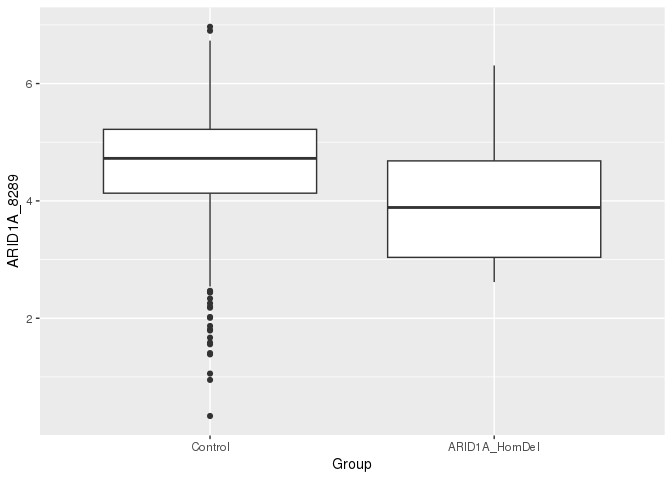
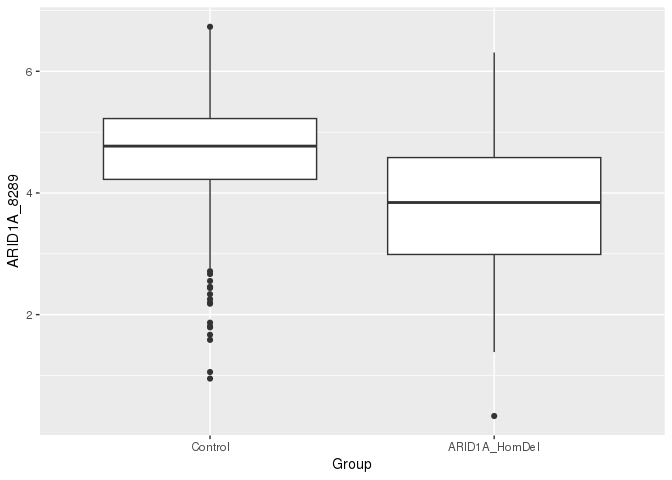
fixing typo. Thanks Richard

diff --git a/README.md b/README.md
@@ -168,14 +168,16 @@ they are not installed yet use `install.packages()` (eg.
 ``` r
 # Load library
 library(tidyverse)
-#> ── Attaching packages ─────────────────────────────────────── tidyverse 1.3.2 ──
-#> ✔ ggplot2 3.4.4     ✔ purrr   1.0.2
-#> ✔ tibble  3.2.1     ✔ dplyr   1.1.4
-#> ✔ tidyr   1.3.0     ✔ stringr 1.5.1
-#> ✔ readr   2.1.4     ✔ forcats 1.0.0
+#> ── Attaching core tidyverse packages ──────────────────────── tidyverse 2.0.0 ──
+#> ✔ dplyr     1.1.4     ✔ readr     2.1.4
+#> ✔ forcats   1.0.0     ✔ stringr   1.5.1
+#> ✔ ggplot2   3.4.4     ✔ tibble    3.2.1
+#> ✔ lubridate 1.9.3     ✔ tidyr     1.3.0
+#> ✔ purrr     1.0.2     
 #> ── Conflicts ────────────────────────────────────────── tidyverse_conflicts() ──
 #> ✖ dplyr::filter() masks stats::filter()
 #> ✖ dplyr::lag()    masks stats::lag()
+#> ℹ Use the conflicted package (<http://conflicted.r-lib.org/>) to force all conflicts to become errors
 library(GRETTA)
 #> 
 #>       _______ .______       _______ .___________.___________.    ___      
@@ -185,7 +187,7 @@ library(GRETTA)
 #>     |  |__| | |  |\  \----.|  |____     |  |        |  |     /  _____  \  
 #>      \______| | _| `._____||_______|    |__|        |__|    /__/     \__\ 
 #>     
-#>     Welcome to GRETTA! The version loaded is: 0.99.5
+#>     Welcome to GRETTA! The version loaded is: 2.3.0
 #> The latest DepMap dataset accompanying this package is v23Q2. 
 #> Please refer to our tutorial on GitHub for loading DepMap data and details: https://github.com/ytakemon/GRETTA
 ```
@@ -296,14 +298,15 @@ ARID1A_groups <- select_cell_lines(input_gene = "ARID1A", data_dir = gretta_data
 
 ## Show number of cell lines in each group 
 count(ARID1A_groups, Group)
-#> # A tibble: 5 × 2
+#> # A tibble: 6 × 2
 #>   Group               n
 #>   <chr>           <int>
-#> 1 ARID1A_HetDel      61
-#> 2 ARID1A_HomDel      23
-#> 3 ARID1A_T-HetDel    30
-#> 4 Control           906
-#> 5 Others             66
+#> 1 ARID1A_HetDel     166
+#> 2 ARID1A_HomDel      26
+#> 3 ARID1A_T-HetDel    31
+#> 4 Amplified          32
+#> 5 Control           758
+#> 6 Others             73
 ```
 
 ### Optional cell line filters
@@ -325,13 +328,14 @@ ARID1A_pancr_groups <- select_cell_lines(input_gene = "ARID1A",
 
 ## Show number of cell lines in each group 
 count(ARID1A_pancr_groups, Group)
-#> # A tibble: 4 × 2
-#>   Group             n
-#>   <chr>         <int>
-#> 1 ARID1A_HetDel     5
-#> 2 ARID1A_HomDel     4
-#> 3 Control          36
-#> 4 Others            2
+#> # A tibble: 5 × 2
+#>   Group               n
+#>   <chr>           <int>
+#> 1 ARID1A_HetDel      13
+#> 2 ARID1A_HomDel       4
+#> 3 ARID1A_T-HetDel     1
+#> 4 Control            27
+#> 5 Others              2
 ```
 
 ## Check for differential expression
@@ -352,7 +356,7 @@ ARID1A_rna_expr <- extract_rna(
   input_samples = ARID1A_groups_subset$DepMap_ID, 
   input_genes = "ARID1A",
   data_dir = gretta_data_dir)
-#> Following sample did not contain RNA data: ACH-000047, ACH-000426, ACH-000658, ACH-000979, ACH-001039, ACH-001063, ACH-001065, ACH-001107, ACH-001126, ACH-001137, ACH-001205, ACH-001212, ACH-001227, ACH-001331, ACH-001544, ACH-001606, ACH-001639, ACH-001675, ACH-001955, ACH-001956, ACH-001957, ACH-002083, ACH-002106, ACH-002109, ACH-002110, ACH-002114, ACH-002116, ACH-002119, ACH-002140, ACH-002141, ACH-002143, ACH-002150, ACH-002156, ACH-002160, ACH-002161, ACH-002179, ACH-002181, ACH-002186, ACH-002189, ACH-002198, ACH-002202, ACH-002210, ACH-002212, ACH-002217, ACH-002228, ACH-002229, ACH-002230, ACH-002233, ACH-002234, ACH-002239, ACH-002243, ACH-002247, ACH-002249, ACH-002250, ACH-002257, ACH-002261, ACH-002263, ACH-002265, ACH-002269, ACH-002278, ACH-002280, ACH-002282, ACH-002283, ACH-002284, ACH-002285, ACH-002294, ACH-002295, ACH-002296, ACH-002297, ACH-002298, ACH-002304, ACH-002305, ACH-002399, ACH-002874, ACH-002875
+#> Following sample did not contain RNA data: ACH-000047, ACH-000426, ACH-000658, ACH-000979, ACH-001039, ACH-001065, ACH-001107, ACH-001126, ACH-001137, ACH-001205, ACH-001212, ACH-001331, ACH-001606, ACH-001639, ACH-001956, ACH-002083, ACH-002106, ACH-002109, ACH-002110, ACH-002114, ACH-002116, ACH-002119, ACH-002140, ACH-002141, ACH-002143, ACH-002150, ACH-002156, ACH-002160, ACH-002161, ACH-002179, ACH-002181, ACH-002189, ACH-002198, ACH-002210, ACH-002212, ACH-002228, ACH-002233, ACH-002234, ACH-002239, ACH-002243, ACH-002247, ACH-002249, ACH-002250, ACH-002257, ACH-002261, ACH-002263, ACH-002265, ACH-002269, ACH-002278, ACH-002280, ACH-002284, ACH-002294, ACH-002295, ACH-002296, ACH-002297, ACH-002304, ACH-002305
 ```
 
 Not all cell lines contain RNA and/or protein expression profiles, and
@@ -388,13 +392,13 @@ t.test(ARID1A_8289 ~ Group, ARID1A_rna_expr)
 #>  Welch Two Sample t-test
 #> 
 #> data:  ARID1A_8289 by Group
-#> t = 2.5764, df = 22.873, p-value = 0.01692
+#> t = 3.2523, df = 24.67, p-value = 0.003305
 #> alternative hypothesis: true difference in means between group Control and group ARID1A_HomDel is not equal to 0
 #> 95 percent confidence interval:
-#>  0.1146094 1.0498810
+#>  0.3273374 1.4598538
 #> sample estimates:
 #>       mean in group Control mean in group ARID1A_HomDel 
-#>                    4.635784                    4.053539
+#>                    4.691550                    3.797954
 
 ## plot 
 ggplot(ARID1A_rna_expr, aes(x = Group, y = ARID1A_8289)) +
@@ -437,9 +441,14 @@ columns:
     groups.
 -   `Adj_pval` - BH-adjusted P-value.
 -   `log2FC_by_median` - Log2 normalized median fold change of
-    dependency probabilities (mutant / control).
+    dependency probabilities (mutant / control). Dependency
+    probabilities range from 0.0-1.0 where 1.0 indicates high
+    probability of KO leading to lethality, while 0.0 indicates little
+    to no lethality.
 -   `log2FC_by_mean` - Log2 normalized mean fold change of dependency
-    probabilities (mutant / control).
+    probabilities (mutant / control). Dependency probabilities range
+    from 0.0-1.0 where 1.0 indicates high probability of KO leading to
+    lethality, while 0.0 indicates little to no lethality.
 -   `CliffDelta` - Cliff’s delta non-parametric effect size between
     mutant and control dependency probabilities. Ranges between -1 to 1.
 -   `dip_pval` - Hartigan’s dip test p-value. Tests whether distribution
@@ -448,9 +457,9 @@ columns:
     multimodel dependency probability distribution and that there may be
     another factor contributing to this separation.
 -   `Interaction_score` - Combined value generated from signed p-values:
-    -log10(Pval) \* sign(log2FC_by_median). Negative scores indicate
-    lethal genetic interaction, and positive scores indicate alleviating
-    genetic interaction.
+    -log10(Pval) \* sign(log2FC_by_median). Positive scores indicate
+    possible lethal genetic interaction, and negative scores indicate
+    possible alleviating genetic interaction.
 
 > **Warning** This process may take a few hours depending on the number
 > of cores assigned. Our example below `GI_screen()` took \~2 hours to
@@ -685,63 +694,57 @@ sessionInfo()
 #> [1] stats     graphics  grDevices utils     datasets  methods   base     
 #> 
 #> other attached packages:
-#>  [1] GRETTA_0.99.5   forcats_1.0.0   stringr_1.5.1   dplyr_1.1.4    
-#>  [5] purrr_1.0.2     readr_2.1.4     tidyr_1.3.0     tibble_3.2.1   
-#>  [9] ggplot2_3.4.4   tidyverse_1.3.2
+#>  [1] GRETTA_2.3.0    lubridate_1.9.3 forcats_1.0.0   stringr_1.5.1  
+#>  [5] dplyr_1.1.4     purrr_1.0.2     readr_2.1.4     tidyr_1.3.0    
+#>  [9] tibble_3.2.1    ggplot2_3.4.4   tidyverse_2.0.0
 #> 
 #> loaded via a namespace (and not attached):
-#>   [1] TH.data_1.1-2                 googledrive_2.0.0            
-#>   [3] colorspace_2.1-0              class_7.3-20                 
-#>   [5] modeltools_0.2-23             fs_1.6.3                     
-#>   [7] gld_2.6.6                     rstudioapi_0.15.0            
-#>   [9] proxy_0.4-27                  farver_2.1.1                 
-#>  [11] ggrepel_0.9.4                 bit64_4.0.5                  
-#>  [13] fansi_1.0.5                   mvtnorm_1.2-4                
-#>  [15] lubridate_1.9.3               coin_1.4-3                   
-#>  [17] xml2_1.3.5                    codetools_0.2-18             
-#>  [19] splines_4.2.2                 doParallel_1.0.17            
-#>  [21] cachem_1.0.8                  rootSolve_1.8.2.4            
-#>  [23] libcoin_1.0-10                knitr_1.45                   
-#>  [25] jsonlite_1.8.7                doMC_1.3.8                   
-#>  [27] broom_1.0.5                   dbplyr_2.3.4                 
-#>  [29] compiler_4.2.2                httr_1.4.7                   
-#>  [31] backports_1.4.1               Matrix_1.6-2                 
-#>  [33] fastmap_1.1.1                 gargle_1.4.0                 
-#>  [35] cli_3.6.1                     htmltools_0.5.7              
-#>  [37] tools_4.2.2                   gtable_0.3.4                 
-#>  [39] glue_1.6.2                    lmom_3.0                     
-#>  [41] Rcpp_1.0.11                   cellranger_1.1.0             
-#>  [43] vctrs_0.6.5                   iterators_1.0.14             
-#>  [45] lmtest_0.9-40                 xfun_0.41                    
-#>  [47] rvest_1.0.3                   timechange_0.2.0             
-#>  [49] lifecycle_1.0.4               googlesheets4_1.0.1          
-#>  [51] MASS_7.3-58.1                 zoo_1.8-12                   
-#>  [53] scales_1.3.0                  hms_1.1.3                    
-#>  [55] parallel_4.2.2                sandwich_3.0-2               
-#>  [57] expm_0.999-8                  yaml_2.3.7                   
-#>  [59] curl_5.1.0                    Exact_3.2                    
-#>  [61] memoise_2.0.1                 stringi_1.8.2                
-#>  [63] RSQLite_2.3.3                 highr_0.10                   
-#>  [65] inflection_1.3.6              foreach_1.5.2                
-#>  [67] nortest_1.0-4                 e1071_1.7-13                 
-#>  [69] filelock_1.0.2                boot_1.3-28                  
-#>  [71] rlang_1.1.2                   pkgconfig_2.0.3              
-#>  [73] matrixStats_1.1.0             evaluate_0.23                
-#>  [75] lattice_0.20-45               RootsExtremaInflections_1.2.1
-#>  [77] labeling_0.4.3                bit_4.0.5                    
-#>  [79] tidyselect_1.2.0              plyr_1.8.9                   
-#>  [81] magrittr_2.0.3                R6_2.5.1                     
-#>  [83] DescTools_0.99.49             generics_0.1.3               
-#>  [85] multcompView_0.1-9            multcomp_1.4-25              
-#>  [87] DBI_1.1.3                     pillar_1.9.0                 
-#>  [89] haven_2.5.1                   withr_2.5.2                  
-#>  [91] survival_3.4-0                modelr_0.1.10                
-#>  [93] crayon_1.5.2                  rcompanion_2.4.34            
-#>  [95] utf8_1.2.4                    BiocFileCache_2.11.1         
-#>  [97] tzdb_0.4.0                    rmarkdown_2.21               
-#>  [99] grid_4.2.2                    readxl_1.4.3                 
-#> [101] data.table_1.14.8             blob_1.2.4                   
-#> [103] reprex_2.0.2                  digest_0.6.33                
-#> [105] diptest_0.77-0                stats4_4.2.2                 
-#> [107] munsell_0.5.0
+#>  [1] matrixStats_1.1.0             doMC_1.3.8                   
+#>  [3] bit64_4.0.5                   filelock_1.0.2               
+#>  [5] doParallel_1.0.17             httr_1.4.7                   
+#>  [7] tools_4.2.2                   backports_1.4.1              
+#>  [9] utf8_1.2.4                    R6_2.5.1                     
+#> [11] nortest_1.0-4                 DBI_1.1.3                    
+#> [13] colorspace_2.1-0              withr_2.5.2                  
+#> [15] tidyselect_1.2.0              Exact_3.2                    
+#> [17] bit_4.0.5                     curl_5.1.0                   
+#> [19] compiler_4.2.2                rcompanion_2.4.34            
+#> [21] cli_3.6.1                     expm_0.999-8                 
+#> [23] sandwich_3.0-2                labeling_0.4.3               
+#> [25] inflection_1.3.6              diptest_0.77-0               
+#> [27] scales_1.3.0                  lmtest_0.9-40                
+#> [29] mvtnorm_1.2-4                 proxy_0.4-27                 
+#> [31] multcompView_0.1-9            RootsExtremaInflections_1.2.1
+#> [33] digest_0.6.33                 rmarkdown_2.21               
+#> [35] pkgconfig_2.0.3               htmltools_0.5.7              
+#> [37] highr_0.10                    dbplyr_2.3.4                 
+#> [39] fastmap_1.1.1                 rlang_1.1.2                  
+#> [41] readxl_1.4.3                  rstudioapi_0.15.0            
+#> [43] RSQLite_2.3.3                 farver_2.1.1                 
+#> [45] generics_0.1.3                zoo_1.8-12                   
+#> [47] magrittr_2.0.3                modeltools_0.2-23            
+#> [49] Matrix_1.6-2                  Rcpp_1.0.11                  
+#> [51] DescTools_0.99.49             munsell_0.5.0                
+#> [53] fansi_1.0.5                   lifecycle_1.0.4              
+#> [55] stringi_1.8.2                 multcomp_1.4-25              
+#> [57] yaml_2.3.7                    MASS_7.3-58.1                
+#> [59] rootSolve_1.8.2.4             plyr_1.8.9                   
+#> [61] BiocFileCache_2.11.1          grid_4.2.2                   
+#> [63] blob_1.2.4                    parallel_4.2.2               
+#> [65] ggrepel_0.9.4                 lmom_3.0                     
+#> [67] lattice_0.20-45               splines_4.2.2                
+#> [69] hms_1.1.3                     knitr_1.45                   
+#> [71] pillar_1.9.0                  boot_1.3-28                  
+#> [73] gld_2.6.6                     codetools_0.2-18             
+#> [75] stats4_4.2.2                  glue_1.6.2                   
+#> [77] evaluate_0.23                 data.table_1.14.8            
+#> [79] vctrs_0.6.5                   tzdb_0.4.0                   
+#> [81] foreach_1.5.2                 cellranger_1.1.0             
+#> [83] gtable_0.3.4                  cachem_1.0.8                 
+#> [85] xfun_0.41                     coin_1.4-3                   
+#> [87] libcoin_1.0-10                broom_1.0.5                  
+#> [89] e1071_1.7-13                  class_7.3-20                 
+#> [91] survival_3.4-0                iterators_1.0.14             
+#> [93] memoise_2.0.1                 timechange_0.2.0             
+#> [95] TH.data_1.1-2
 ```
